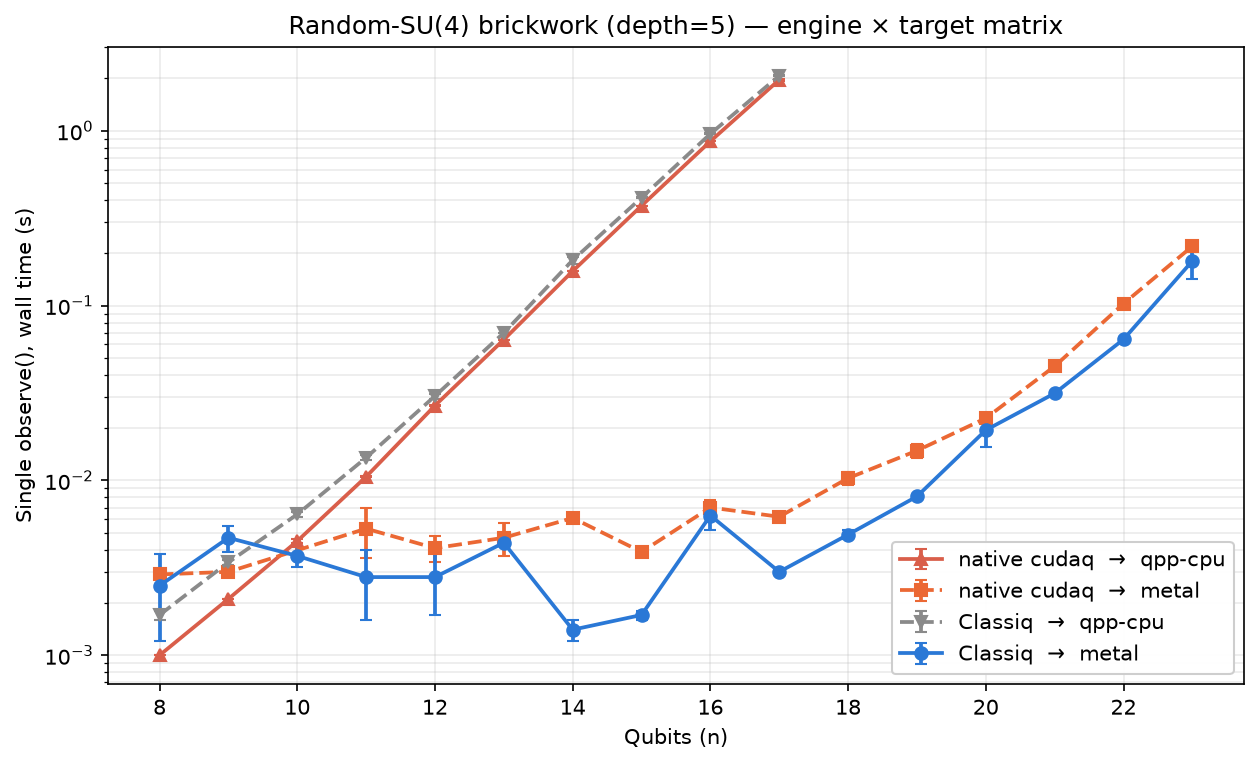
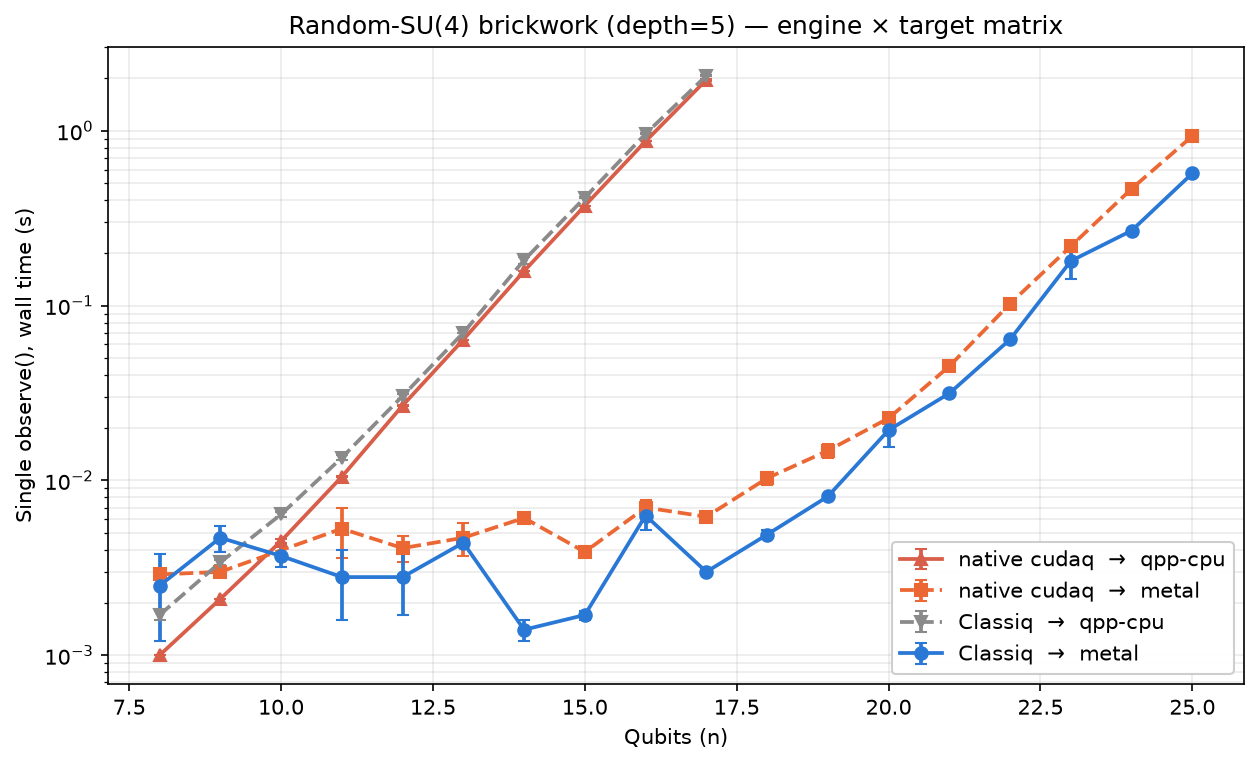
Benchmark: extend metal paths to n=25 (33M-amplitude statevector)
Appends n=24 and n=25 for both native_metal and classiq_metal to
examples.csv, regenerates the plot, updates the README caption.

n=24: native_metal 0.47s, classiq_metal 0.27s (~2 GB working-set peak)
n=25: native_metal 0.93s, classiq_metal 0.57s (~4 GB peak — still fine on
      24 GB, but memory bandwidth starts to dominate the curve)

Also bumps the range in examples_scaling_bench.py to (8, 26) so a full
re-run sweeps to n=25.

diff --git a/benchmarks/examples_scaling_bench.py b/benchmarks/examples_scaling_bench.py
@@ -110,9 +110,9 @@ def _classiq_in_process(N, depth, target):
 
 CONFIGS = [
     ("native_qpp",    lambda n: _native_in_process(n, DEPTH, "qpp-cpu"),  range(8, 18)),
-    ("native_metal",  lambda n: _native_subprocess(n, DEPTH, "metal"),    range(8, 24)),
+    ("native_metal",  lambda n: _native_subprocess(n, DEPTH, "metal"),    range(8, 26)),
     ("classiq_qpp",   lambda n: _classiq_in_process(n, DEPTH, "qpp-cpu"), range(8, 18)),
-    ("classiq_metal", lambda n: _classiq_in_process(n, DEPTH, "metal"),   range(8, 24)),
+    ("classiq_metal", lambda n: _classiq_in_process(n, DEPTH, "metal"),   range(8, 26)),
 ]
 
 out = os.path.join(HERE, "results", "examples.csv")

diff --git a/README.md b/README.md
@@ -72,7 +72,7 @@ Full 2×2 matrix — {native @cudaq.kernel, Classiq qprog_to_cudaq_kernel} ×
 (RY layer + CX-RZ-CX brickwork, depth=5). Native and Classiq emit identical
 gate sequences, so the frontend cancels out and each line measures only its
 runtime engine. Only the `cudaq.observe(...)` call is timed; synthesis /
-kernel construction happen before `t0`. Metal paths sweep to n=23:
+kernel construction happen before `t0`. Metal paths sweep to n=25:
 
 ![Examples scaling — engine × target matrix](benchmarks/results/examples.png)
 
@@ -80,10 +80,10 @@ kernel construction happen before `t0`. Metal paths sweep to n=23:
 - The two **CPU** lines overlap: native ≈ Classiq → qpp-cpu, both doubling
   per qubit as expected for a CPU statevector (n=17 ≈ 2 s).
 - The two **metal** lines overlap too: native ≈ Classiq → metal, ~1–10 ms
-  per observe through n=20, climbing to ~200 ms at n=23 (once the 128 MB
-  statevector starts hitting memory bandwidth).
+  per observe through n=20, climbing to ~500–900 ms at n=25 (once the 512 MB
+  statevector saturates memory bandwidth).
 - **At n=17: metal beats qpp-cpu by ~300–400×**  (2 s → 6 ms).
-- Metal reaches **n=23** (128 M-amplitude statevector) in ~0.2 s, where CPU
+- Metal reaches **n=25** (33 M-amplitude statevector) in ~0.6–0.9 s, where CPU
   is not measurable within this benchmark's budget.
 
 Reproduce with:
